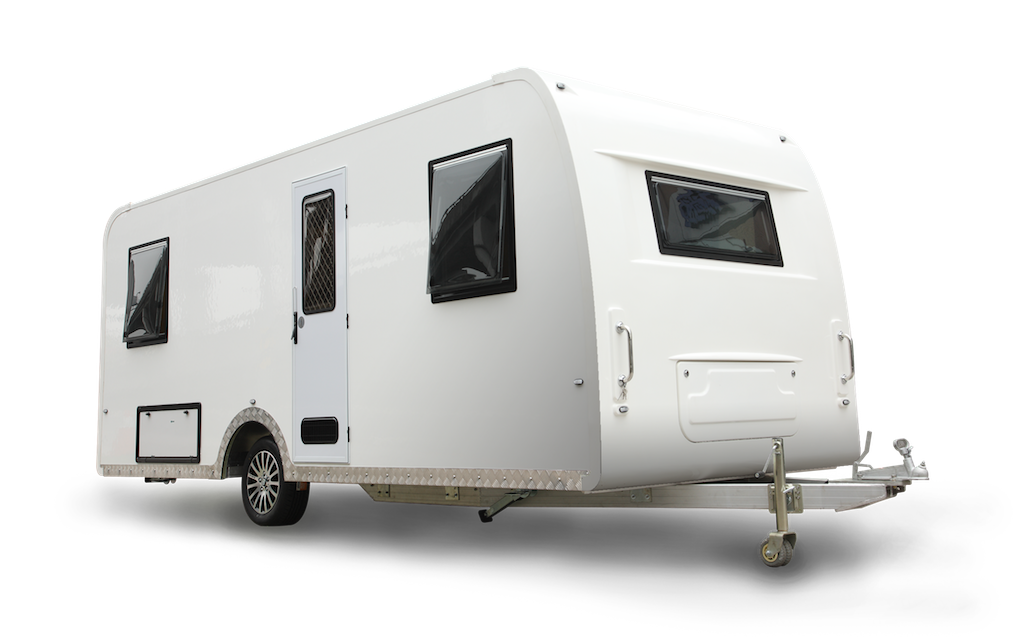
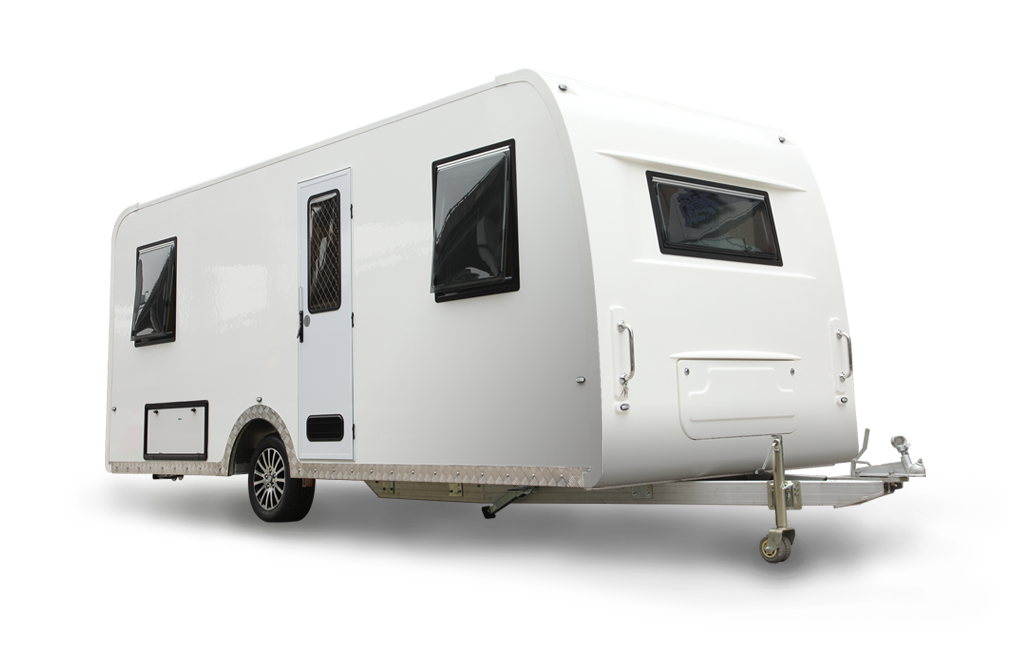
車色選擇

diff --git a/ss6.html b/ss6.html
@@ -165,34 +165,34 @@
               <h3>Body Paint</h3> 
             </div>
             <div class="paint-wrap">
-              <a href="" class="paint">
+              <a href="" class="paint" data-img="img/ss6/color/ss6-paint1.png">
                 <img src="img/ss6/color/paint1.png" alt="烤漆1">
               </a>
-              <a href="" class="paint">
+              <a href="" class="paint" data-img="img/ss6/color/ss6-paint2.png">
                 <img src="img/ss6/color/paint2.png" alt="烤漆2">
               </a>
-              <a href="" class="paint">
+              <a href="" class="paint" data-img="img/ss6/color/ss6-paint3.png">
                 <img src="img/ss6/color/paint3.png" alt="烤漆3">
               </a>
-              <a href="" class="paint">
+              <a href="" class="paint" data-img="img/ss6/color/ss6-paint4.png">
                 <img src="img/ss6/color/paint4.png" alt="烤漆4">
               </a>
-              <a href="" class="paint">
+              <a href="" class="paint" data-img="img/ss6/color/ss6-paint5.png">
                 <img src="img/ss6/color/paint5.png" alt="烤漆5">
               </a>
-              <a href="" class="paint">
+              <a href="" class="paint" data-img="img/ss6/color/ss6-paint6.png">
                 <img src="img/ss6/color/paint6.png" alt="烤漆6">
               </a>
-              <a href="" class="paint">
+              <a href="" class="paint" data-img="img/ss6/color/ss6-paint7.png">
                 <img src="img/ss6/color/paint7.png" alt="烤漆7">
               </a>
-              <a href="" class="paint">
+              <a href="" class="paint" data-img="img/ss6/color/ss6-paint8.png">
                 <img src="img/ss6/color/paint8.png" alt="烤漆8">
               </a>
-              <a href="" class="paint">
+              <a href="" class="paint" data-img="img/ss6/color/ss6-paint9.png">
                 <img src="img/ss6/color/paint9.png" alt="烤漆9">
               </a>
-              <a href="" class="paint">
+              <a href="" class="paint" data-img="img/ss6/color/ss6-paint10.png">
                 <img src="img/ss6/color/paint10.png" alt="烤漆10">
               </a>
             </div>
@@ -203,28 +203,28 @@
               <h3>Sticker Coating</h3>
             </div>
             <div class="coating-wrap">
-              <a href="" class="coating">
+              <a href="" class="coating" data-img="img/ss6/color/ss6-coating1.png">
                 <img src="img/ss6/color/coating1.png" alt="貼膜1">
               </a>
-              <a href="" class="coating">
+              <a href="" class="coating" data-img="img/ss6/color/ss6-coating2.png">
                 <img src="img/ss6/color/coating2.png" alt="貼膜2">
               </a>
-              <a href="" class="coating">
+              <a href="" class="coating" data-img="img/ss6/color/ss6-coating3.png">
                 <img src="img/ss6/color/coating3.png" alt="貼膜3">
               </a>
-              <a href="" class="coating">
+              <a href="" class="coating" data-img="img/ss6/color/ss6-coating4.png">
                 <img src="img/ss6/color/coating4.png" alt="貼膜4">
               </a>
-              <a href="" class="coating">
+              <a href="" class="coating" data-img="img/ss6/color/ss6-coating5.png">
                 <img src="img/ss6/color/coating5.png" alt="貼膜5">
               </a>
-              <a href="" class="coating">
+              <a href="" class="coating" data-img="img/ss6/color/ss6-coating6.png">
                 <img src="img/ss6/color/coating6.png" alt="貼膜6">
               </a>
-              <a href="" class="coating">
+              <a href="" class="coating" data-img="img/ss6/color/ss6-coating7.png">
                 <img src="img/ss6/color/coating7.png" alt="貼膜7">
               </a>
-              <a href="" class="coating">
+              <a href="" class="coating" data-img="img/ss6/color/ss6-coating8.png">
                 <img src="img/ss6/color/coating8.png" alt="貼膜8">
               </a>
             </div>
@@ -235,16 +235,16 @@
               <h3>Stylish Paint</h3>
             </div>
             <div class="stylish-wrap">
-              <a href="" class="stylish">
+              <a href="" class="stylish" data-img="img/ss6/color/ss6-stylish1.png">
                 <img src="img/ss6/color/stylish1.png" alt="彩繪1">
               </a>
-              <a href="" class="stylish">
+              <a href="" class="stylish" data-img="img/ss6/color/ss6-stylish2.png">
                 <img src="img/ss6/color/stylish2.png" alt="彩繪2">
               </a>
-              <a href="" class="stylish">
+              <a href="" class="stylish" data-img="img/ss6/color/ss6-stylish3.png">
                 <img src="img/ss6/color/stylish3.png" alt="彩繪3">
               </a>
-              <a href="" class="stylish">
+              <a href="" class="stylish" data-img="img/ss6/color/ss6-stylish4.png">
                 <img src="img/ss6/color/stylish4.png" alt="彩繪4">
               </a>
             </div>
@@ -313,36 +313,50 @@
         </ul>
       </nav>
       <div class="equipment-wrapper active" id="equip1">
-        <div class="equip-lists grid">
-          <li class="grid-item">
-            <img src="img/ss6/equipment/e1.jpg" alt="">
-            <span class="title">車 門</span>
-          </li>
-          <li class="grid-item">
-            <img src="img/ss6/equipment/e2.jpg" alt="">
-            <span class="title">戶外攝影機</span>
-          </li>
-          <li class="grid-item">
-            <img src="img/ss6/equipment/e3.jpg" alt="">
-            <span class="title">門 燈</span>
-          </li>
-          <li class="grid-item">
-            <img src="img/ss6/equipment/e4.jpg" alt="">
-            <span class="title">抽換黑水箱</span>
-          </li>
-          <li class="grid-item">
-            <img src="img/ss6/equipment/e5.jpg" alt="">
-            <span class="title">紗門</span>
-          </li>
-          <li class="grid-item">
-            <img src="img/ss6/equipment/e6.jpg" alt="">
-            <span class="title">側窗</span>
-          </li>
-          <li class="grid-item">
-            <img src="img/ss6/equipment/e7.jpg" alt="">
-            <span class="title">側窗</span>
-          </li>
+        <div class="left-col">
+          <div class="left-wrapper">
+            <img src="img/ss6/equipment/left-slide.jpg" alt="外觀配備">
+          </div>
+          <div class="text-wrapper">
+            <p>It can also make you enjoy the intelligent life of smart home <br>It can make your have free, casual and interesting leisure field time in.</p>
+            <h3>在野外也能享受智能家居的智慧生活。<br>讓您度過自由、隨性、又有趣的野地休閒時光。</h3>
+          </div>
+          
+          
         </div>
+        <div class="right-col">
+          <div class="equip-lists grid">
+            <li class="grid-item">
+              <img src="img/ss6/equipment/e1.jpg" alt="">
+              <span class="title">車 門</span>
+            </li>
+            <li class="grid-item">
+              <img src="img/ss6/equipment/e2.jpg" alt="">
+              <span class="title">戶外攝影機</span>
+            </li>
+            <li class="grid-item">
+              <img src="img/ss6/equipment/e3.jpg" alt="">
+              <span class="title">門 燈</span>
+            </li>
+            <li class="grid-item">
+              <img src="img/ss6/equipment/e4.jpg" alt="">
+              <span class="title">抽換黑水箱</span>
+            </li>
+            <li class="grid-item">
+              <img src="img/ss6/equipment/e5.jpg" alt="">
+              <span class="title">紗門</span>
+            </li>
+            <li class="grid-item">
+              <img src="img/ss6/equipment/e6.jpg" alt="">
+              <span class="title">側窗</span>
+            </li>
+            <li class="grid-item">
+              <img src="img/ss6/equipment/e7.jpg" alt="">
+              <span class="title">側窗</span>
+            </li>
+          </div>
+        </div>
+        
       </div>
       <div class="equipment-wrapper" id="equip2">
         <div class="map-wrapper">
@@ -569,6 +583,21 @@
         });   
         $('.ss6-spot4').on('click', function(e) {
           window.open('vr.html#ss6-4','_blank');
+        });
+
+        var colorCamper = $('.color-container img')[0];
+
+        $('.paint').on('click', function(e) {
+          e.preventDefault();
+          colorCamper.src = $(this).data('img');
+        });
+        $('.coating').on('click', function(e) {
+          e.preventDefault();
+          colorCamper.src = $(this).data('img');
+        });
+        $('.stylish').on('click', function(e) {
+          e.preventDefault();
+          colorCamper.src = $(this).data('img');
         });
       });
     </script>

diff --git a/css/style.css b/css/style.css
@@ -2069,8 +2069,7 @@ body {
   background-image: url("../img/ss6/equipment/external-bg.jpg");
   background-repeat: no-repeat;
   background-size: cover;
-}
-#equipment #equip2 {
+  background-position: center;
   overflow: hidden;
 }
 #equipment #equip2 .map-wrapper {
@@ -2104,6 +2103,48 @@ body {
 #equipment .equip-lists li img {
   width: 100%;
 }
+#equipment .left-col {
+  width: 100%;
+  float: left;
+  margin-left: 0;
+  margin-right: 0;
+}
+@media (min-width: 1230px) {
+  #equipment .left-col {
+    width: 49.15254%;
+    float: left;
+    margin-right: 1.69492%;
+  }
+}
+#equipment .left-col .left-wrapper {
+  padding: 30px 10px 30px 10px;
+}
+#equipment .left-col .left-wrapper img {
+  display: block;
+  width: 100%;
+  max-width: 900px;
+  margin: 0 auto;
+}
+#equipment .left-col .text-wrapper {
+  color: #60605F;
+  text-align: center;
+}
+#equipment .left-col .text-wrapper p {
+  font-size: 18px;
+}
+#equipment .right-col {
+  width: 100%;
+  float: left;
+  margin-left: 0;
+  margin-right: 0;
+}
+@media (min-width: 1230px) {
+  #equipment .right-col {
+    width: 49.15254%;
+    float: right;
+    margin-right: 0;
+  }
+}
 #equipment .grid {
   padding: 20px 0;
   max-width: 300px;
@@ -2115,6 +2156,16 @@ body {
   }
 }
 @media (min-width: 900px) {
+  #equipment .grid {
+    max-width: 900px;
+  }
+}
+@media (min-width: 1230px) {
+  #equipment .grid {
+    max-width: 600px;
+  }
+}
+@media (min-width: 1800px) {
   #equipment .grid {
     max-width: 900px;
   }

diff --git a/sass/page/ss6.scss b/sass/page/ss6.scss
@@ -700,9 +700,10 @@ body {
     background-image: url('../img/ss6/equipment/external-bg.jpg');
     background-repeat: no-repeat;
     background-size: cover;
+    background-position: center;
+    overflow: hidden;
   }
   #equip2 {
-    overflow: hidden;
     .map-wrapper {
       padding-top: 40%;
       position: relative;
@@ -734,6 +735,34 @@ body {
       }
     }
   }
+  .left-col {
+    @include span(12);
+    @include breakpoint(1230px) {
+      @include span(6);
+    }
+    .left-wrapper {
+      padding: 30px 10px 30px 10px;
+      img {
+        display: block;
+        width: 100%;
+        max-width: 900px;
+        margin: 0 auto;
+      }
+    }
+    .text-wrapper {
+      color: #60605F;
+      text-align: center;
+      p {
+        font-size: 18px;
+      }
+    }
+  }
+  .right-col {
+    @include span(12);
+    @include breakpoint(1230px) {
+      @include span(6 last);
+    }
+  }
   .grid {
     padding: 20px 0;
     max-width: 300px;
@@ -743,6 +772,15 @@ body {
     @include breakpoint(900px) {
       max-width: 900px;
     }
+    @include breakpoint(1230px) {
+      max-width: 600px;
+    }
+    @include breakpoint(1800px) {
+      max-width: 900px;
+    }
+    // @include breakpoint(900px) {
+    //   max-width: 900px;
+    // }
     margin: 0 auto;
   }
   .grid-item { 
